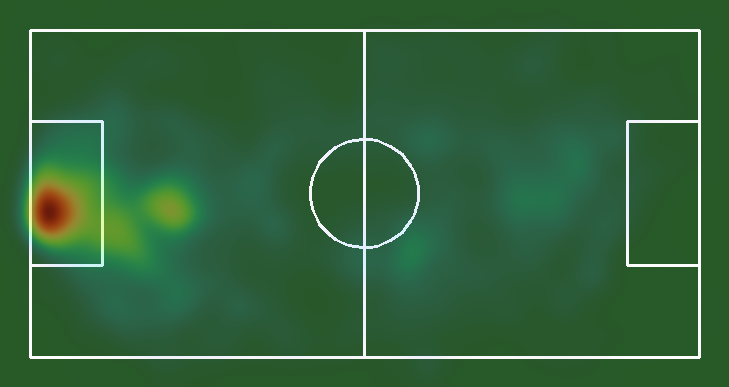
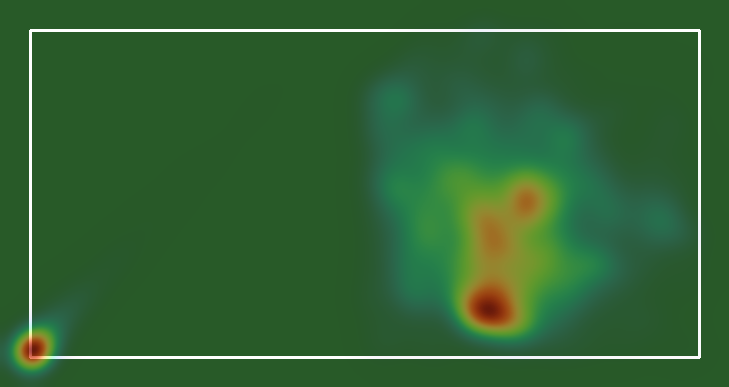
removed playernames

Changed region(s): [[0.4225, 0.093, 0.9657, 0.9302], [0.0, 0.2481, 0.3923, 0.8682], [0.0, 0.8062, 0.0905, 0.9922]]

diff --git a/src/summarize_pass_review.py b/src/summarize_pass_review.py
@@ -3,6 +3,7 @@
 import argparse
 import csv
 import html
+import json
 from collections import Counter, defaultdict
 from pathlib import Path
 
@@ -10,17 +11,24 @@ from pathlib import Path
 TEAM_NAMES = {"0": "Grün", "1": "Blau", "": "Unklar"}
 
 
-def normalize_player(value, team):
+def load_aliases(path):
+    if not path or not Path(path).exists():
+        return {}
+    raw = json.loads(Path(path).read_text(encoding="utf-8"))
+    aliases = raw.get("aliases", raw)
+    if not isinstance(aliases, dict):
+        raise SystemExit("Player aliases must be a JSON object")
+    return {
+        str(key).casefold().replace(" ", ""): str(value)
+        for key, value in aliases.items()
+    }
+
+
+def normalize_player(value, team, aliases):
     value = value.strip()
     if not value:
         return f"Unbekannt {TEAM_NAMES.get(team, 'Team')}"
     key = value.casefold().replace(" ", "")
-    aliases = {
-        "patrick": "Patrick abe",
-        "patrickabe": "Patrick abe",
-        "ach/bre": "Ach/Bre unklar",
-        "ach/breunklar": "Ach/Bre unklar",
-    }
     return aliases.get(key, value)
 
 
@@ -32,7 +40,10 @@ def main():
     parser = argparse.ArgumentParser(description="Validierte Passstatistik")
     parser.add_argument("review_csv")
     parser.add_argument("--output-prefix", default="video_project")
+    parser.add_argument("--player-aliases", default="data/player_names.json",
+                        help="optional ignored JSON with private player aliases")
     args = parser.parse_args()
+    aliases = load_aliases(args.player_aliases)
 
     review_path = Path(args.review_csv)
     out_dir = review_path.parent
@@ -55,8 +66,8 @@ def main():
         status = row["review_status"]
         from_team = row["review_von_team"].strip()
         to_team = row["review_zu_team"].strip()
-        passer = normalize_player(row["review_von_spieler"], from_team)
-        receiver = normalize_player(row["review_zu_spieler"], to_team)
+        passer = normalize_player(row["review_von_spieler"], from_team, aliases)
+        receiver = normalize_player(row["review_zu_spieler"], to_team, aliases)
 
         if status == "shot":
             team_stats[from_team]["schuesse"] += 1

diff --git a/src/player_performance.py b/src/player_performance.py
@@ -203,7 +203,7 @@ def main():
     cards = json.dumps(result_rows, ensure_ascii=False)
     dashboard_path = out_dir / f"{prefix}_spieler_dashboard.html"
     dashboard = f"""<!doctype html><html lang="de"><head><meta charset="utf-8"><meta name="viewport" content="width=device-width,initial-scale=1"><title>Spieler-Leistungsdaten</title><style>
-body{{font:15px system-ui;background:#0f172a;color:#f8fafc;margin:0}}header{{padding:18px 22px;background:#111827;position:sticky;top:0;z-index:2}}h1{{margin:0 0 5px}}header p{{margin:0;color:#cbd5e1}}main{{padding:16px;display:grid;grid-template-columns:repeat(auto-fill,minmax(350px,1fr));gap:14px}}article{{background:#1e293b;border:1px solid #334155;border-radius:10px;overflow:hidden}}article h2{{margin:12px 14px 6px}}img{{display:block;width:100%;background:#132}}table{{width:calc(100% - 28px);margin:8px 14px 14px;border-collapse:collapse}}td{{padding:5px;border-bottom:1px solid #334155}}td:last-child{{text-align:right;font-weight:600}}.warn{{color:#fde68a}}</style></head><body><header><h1>Spieler-Leistungsdaten</h1><p>Sichtbare Mindestwerte · Spitzentempo = robustes 99. Perzentil · Hochintensiv ≥ {args.high_intensity:g} km/h · Sprint ≥ {args.sprint:g} km/h, jeweils mindestens 0,5 s. <span class="warn">Ach/Bre-Autoanteile bleiben gemeinsam.</span></p></header><main id="root"></main><script>
+body{{font:15px system-ui;background:#0f172a;color:#f8fafc;margin:0}}header{{padding:18px 22px;background:#111827;position:sticky;top:0;z-index:2}}h1{{margin:0 0 5px}}header p{{margin:0;color:#cbd5e1}}main{{padding:16px;display:grid;grid-template-columns:repeat(auto-fill,minmax(350px,1fr));gap:14px}}article{{background:#1e293b;border:1px solid #334155;border-radius:10px;overflow:hidden}}article h2{{margin:12px 14px 6px}}img{{display:block;width:100%;background:#132}}table{{width:calc(100% - 28px);margin:8px 14px 14px;border-collapse:collapse}}td{{padding:5px;border-bottom:1px solid #334155}}td:last-child{{text-align:right;font-weight:600}}.warn{{color:#fde68a}}</style></head><body><header><h1>Spieler-Leistungsdaten</h1><p>Sichtbare Mindestwerte · Spitzentempo = robustes 99. Perzentil · Hochintensiv ≥ {args.high_intensity:g} km/h · Sprint ≥ {args.sprint:g} km/h, jeweils mindestens 0,5 s. <span class="warn">Mehrdeutige automatische Zuordnungen bleiben gruppiert.</span></p></header><main id="root"></main><script>
 const DATA={cards};const root=document.querySelector('#root');for(const x of DATA){{const a=document.createElement('article');a.innerHTML=`<h2>${{x.spieler}}</h2><img src="${{x.heatmap}}"><table><tr><td>Sichtbare Distanz</td><td>${{x.sichtbare_distanz_km.toFixed(3)}} km</td></tr><tr><td>Sichtbare Zeit</td><td>${{x.sichtbare_dauer_min.toFixed(1)}} min</td></tr><tr><td>Robustes Spitzentempo</td><td>${{x.robustes_spitzentempo_kmh.toFixed(1)}} km/h</td></tr><tr><td>Hochintensitätsläufe</td><td>${{x.high_intensity_events}} (${{x.high_intensity_distanz_m.toFixed(0)}} m)</td></tr><tr><td>Sprints</td><td>${{x.sprints}} (${{x.sprint_distanz_m.toFixed(0)}} m)</td></tr><tr><td>Zugeordnete Tracklets</td><td>${{x.tracklets}}</td></tr></table>`;root.appendChild(a);}}
 </script></body></html>"""
     dashboard_path.write_text(dashboard, encoding="utf-8")

diff --git a/README.md b/README.md
@@ -13,11 +13,11 @@ half-pitch homographies which meet below the camera. Ball possession, passes, an
 fully stable per-player IDs are still experimental (see
 [Experimental](#experimental)).
 
-## Prototype output
+## Validated output
 
-These heatmaps show the visual format of an earlier development run. They are kept
-as a snapshot; the current validated results are generated locally in
-`data/output/` and deliberately not committed with the repository.
+These heatmaps come from the final piecewise calibration and the conservative
+anchor-transition filter. They show only visible on-pitch detections; they are
+not a claim of complete team movement while the follow-cam points elsewhere.
 
 | Team green | Team blue |
 |------------|-----------|
@@ -74,7 +74,8 @@ With that I localize each frame on its own, without accumulated drift. All 25,15
 frames are available; a conservative anchor-transition filter retains 90.9% as
 reliable for metrics. Strict checks on the three anchors and additional arbitrary
 frames separate the active game from the neighboring pitches and keep the tracked
-ball inside. The image below is retained as an earlier diagnostic:
+ball inside. The validated frame below shows the final boundary in the difficult
+right-hand view where the earlier calibration had put the duel and ball outside:
 
 ![Calibration check](assets/calibration_validation.jpg)
 
@@ -177,6 +178,14 @@ and re-identification for stable per-player IDs (`detect_ball.py`,
 `extract_reid.py`, `stitch_tracklets.py`, `player_stats.py`,
 `player_performance.py`). The honest status is in
 [docs/methodology.md](docs/methodology.md#open-threads).
+
+The 13 experimental ball/pass/contact scripts cover candidate filtering,
+contact review, motion and high-resolution audits, automatic pre-classification,
+and manual aggregation. Their review labels and some comments remain German
+because the annotation workflow was conducted in German; they are research
+prototypes rather than a polished public interface. Optional private player
+aliases are loaded from the gitignored `data/player_names.json`; the committed
+`data/player_names.example.json` documents the format.
 
 ## Limitations
 